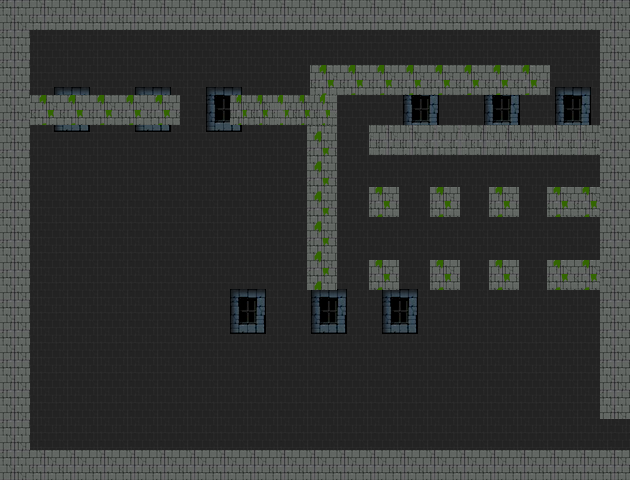
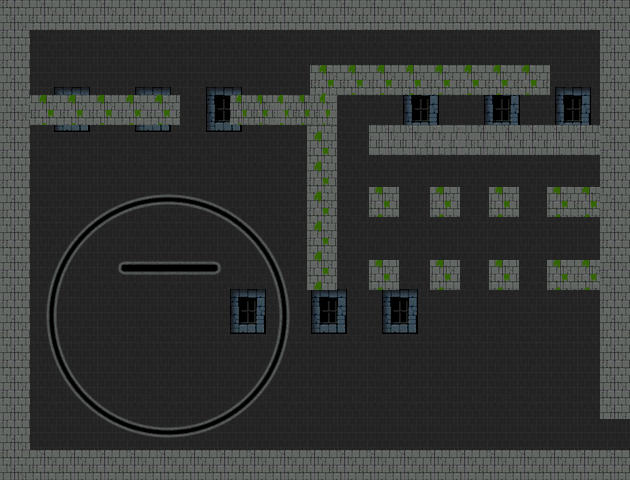
more

Changed region(s): [[0.0603, 0.4062, 0.4825, 0.9375], [0.181, 0.5312, 0.3619, 0.5938]]

diff --git a/SampleGames/ShaculaV2/scripts/gameController.js b/SampleGames/ShaculaV2/scripts/gameController.js
@@ -8,25 +8,33 @@ var gameController = {
         var levelToCreate = Levels[GLOBAL.currentLevel];
         
         //Levers
-        for (var i = 0; i < levelToCreate.levers.length; i++) {
-            GLOBAL.leverContainer.cloneObject(levelToCreate.levers[i]);
+        if (levelToCreate.levers) {
+            for (var i = 0; i < levelToCreate.levers.length; i++) {
+                GLOBAL.leverContainer.cloneObject(levelToCreate.levers[i]);
+            }
         }
         
         //Spikes
-        for (var i = 0; i < levelToCreate.spikes.length; i++) {
-            GLOBAL.spikeContainer.cloneObject(levelToCreate.spikes[i]);
+        if (levelToCreate.spikes) {
+            for (var i = 0; i < levelToCreate.spikes.length; i++) {
+                GLOBAL.spikeContainer.cloneObject(levelToCreate.spikes[i]);
+            }
         }
         
         //Blood
-        for (var i = 0; i < levelToCreate.blood.length; i++) {
-            if (levelToCreate.blood[i].isActive) {
-                GLOBAL.bloodContainer.cloneObject({ blood: levelToCreate.blood[i], index: i });
+        if (levelToCreate.blood) {
+            for (var i = 0; i < levelToCreate.blood.length; i++) {
+                if (levelToCreate.blood[i].isActive) {
+                    GLOBAL.bloodContainer.cloneObject({ blood: levelToCreate.blood[i], index: i });
+                }
             }
         }
         
         //Bats
-        for (var i = 0; i < levelToCreate.bats.length; i++) {
-            GLOBAL.batContainer.cloneObject(levelToCreate.bats[i]);
+        if (levelToCreate.bats) {
+            for (var i = 0; i < levelToCreate.bats.length; i++) {
+                GLOBAL.batContainer.cloneObject(levelToCreate.bats[i]);
+            }
         }
         
         //Exits
@@ -35,13 +43,23 @@ var gameController = {
         }
         
         //Falling Walls
-        for (var i = 0; i < levelToCreate.fallingWalls.length; i++) {
-            GLOBAL.fallingWallContainer.cloneObject(levelToCreate.fallingWalls[i]);
+        if (levelToCreate.fallingWalls) {
+            for (var i = 0; i < levelToCreate.fallingWalls.length; i++) {
+                GLOBAL.fallingWallContainer.cloneObject(levelToCreate.fallingWalls[i]);
+            }
         }
         
         //Moving Walls
-        for (var i = 0; i < levelToCreate.movableWalls.length; i++) {
-            GLOBAL.movableWallContainer.cloneObject(levelToCreate.movableWalls[i]);
+        if (levelToCreate.movableWalls) {
+            for (var i = 0; i < levelToCreate.movableWalls.length; i++) {
+                GLOBAL.movableWallContainer.cloneObject(levelToCreate.movableWalls[i]);
+            }
+        }
+        
+        if (levelToCreate.saws) {
+            for (var i = 0; i < levelToCreate.saws.length; i++) {
+                GLOBAL.sawContainer.cloneObject(levelToCreate.saws[i]);
+            }
         }
         
         if (levelToCreate.coffin === undefined) {
@@ -56,6 +74,7 @@ var gameController = {
         GLOBAL.fallingWallContainer.clearAll();
         GLOBAL.leverContainer.clearAll();
         GLOBAL.movableWallContainer.clearAll();
+        GLOBAL.sawContainer.clearAll();
         
         dracul.x = data.dracCoords.x;
         dracul.y = data.dracCoords.y;

diff --git a/SampleGames/ShaculaV2/index.html b/SampleGames/ShaculaV2/index.html
@@ -29,6 +29,7 @@
     <script language="Javascript" src="scripts/fallingWall.js"></script>
     <script language="Javascript" src="scripts/lever.js"></script>
     <script language="Javascript" src="scripts/movableWall.js"></script>
+    <script language="Javascript" src="scripts/saw.js"></script>
 	
 	<body>
 		<canvas id="canvas" width="630" height="480"></canvas>
@@ -76,15 +77,7 @@
 			barWidth: 0,
 			init: function() {
 				jsGFwk.ResourceManager.onResourcesLoadedCompleted = function() {
-					
-					/*jsGFwk.Sprites.createSprite({id: "background1", 
-						graphic: jsGFwk.ResourceManager.graphics.all.image,
-						top: 77, left: 702, width: 610, height: 480});
-                    
-                    jsGFwk.Sprites.createSprite({id: "background2", 
-						graphic: jsGFwk.ResourceManager.graphics.all.image,
-						top: 77, left: 1352, width: 630, height: 480});*/
-					
+										
 					jsGFwk.Sprites.createSpriteCollection("goal", jsGFwk.ResourceManager.graphics.all.image,
 						[{top: 15, left: 395, width: 25, height: 36},
                          {top: 15, left: 429, width: 31, height: 36}]);
@@ -196,6 +189,13 @@
                          {left: 355, top: 89, width: 29, height: 17}]);
 					jsGFwk.Sprites.bat.loop(true);
                     
+                    jsGFwk.Sprites.createSpriteCollection("saw", jsGFwk.ResourceManager.graphics.all.image, 
+						[{left: 795, top: 120, width: 30, height: 30},
+						 {left: 828, top: 120, width: 30, height: 30},
+                         {left: 863, top: 120, width: 30, height: 30},
+                         {left: 899, top: 120, width: 30, height: 30}]);
+					jsGFwk.Sprites.saw.loop(true);
+                    
                     jsGFwk.Sprites.createSpriteCollection("effectCloud", jsGFwk.ResourceManager.graphics.all.image,
 						[{top: 601, left: 377, width: 89, height: 86},
                          {top: 601, left: 489, width: 89, height: 86},
@@ -241,6 +241,7 @@
                     GLOBAL.fallingWallContainer = jsGFwk.Container.createContainer('fallingWalls', FallingWall, true);
                     GLOBAL.leverContainer = jsGFwk.Container.createContainer('levers', Lever, true);
                     GLOBAL.movableWallContainer = jsGFwk.Container.createContainer('movableWalls', MovableWall, true);
+                    GLOBAL.sawContainer = jsGFwk.Container.createContainer('sawWalls', Saw, true);
                     
 					jsGFwk.Scenes.create({name: "main", gameObjects: [hud, GLOBAL.cloudContainer] });
 							
@@ -248,6 +249,7 @@
 						gameObjects: [background, gameController,
                             GLOBAL.leverContainer,
 							GLOBAL.spikeContainer, GLOBAL.bloodContainer,
+                            GLOBAL.sawContainer,
                             GLOBAL.batContainer, GLOBAL.fallingWallContainer,
                             GLOBAL.movableWallContainer,
                             Coffin, dracul, Light,

diff --git a/SampleGames/ShaculaV2/scripts/saw.js b/SampleGames/ShaculaV2/scripts/saw.js
@@ -1,0 +1,45 @@
+var Saw = {
+    onInit: function (parameters) {
+        this.x = parameters.x;
+        this.y = parameters.y;
+        this.originalX = parameters.x;
+        this.originalY = parameters.y;
+        this.width = 30;
+        this.height = 30;
+        this.animIndex = 0;
+        this.moveAccumulator = 0;
+        this.speed = parameters.speed;
+        this.range = parameters.range;
+        
+        switch (parameters.type) {
+            case 'circular':
+                this.updatePointer = this.updateCircular;
+                break;
+            default:
+                this.updatePointer = this.updateLinear;
+                break;
+        }
+    },
+    updateCircular: function (delta) {
+        this.moveAccumulator += this.speed;
+        this.x = (Math.sin(this.moveAccumulator) * this.range) + this.originalX;
+        this.y = (Math.cos(this.moveAccumulator) * this.range) + this.originalY;
+    },
+    updateLinear: function (delta) {
+        this.moveAccumulator += this.speed;
+        this.x = (Math.sin(this.moveAccumulator) * this.range) + this.originalX;
+    },
+    updatePointer: function () {},
+    onUpdate: function (delta) {
+        this.animIndex++;
+        this.animIndex = this.animIndex % 4;
+        this.updatePointer(delta);
+        
+        if (dracul.isRectColliding(this)) {
+            dracul.kill();
+        }
+    },
+    onDraw: function (ctx) {
+        ctx.drawImage(jsGFwk.Sprites.saw.spriteBag[this.animIndex].image, this.x, this.y);
+    }
+};

diff --git a/SampleGames/ShaculaV2/scripts/level.js b/SampleGames/ShaculaV2/scripts/level.js
@@ -42,12 +42,16 @@ var Levels = [
             { x: 489, y: 290, fallSpeed: 1.5 }
         ],
         levers: [
-            { x: 80, y: 83, state: 0, wall: { x: 50, y: 350, width: 30, height: 30 } },
+            { x: 80, y: 83, state: 0, wall: { x: 150, y: 350, width: 30, height: 30 } },
             { x: 130, y: 83, state: 0, wall: { x: 200, y: 350, width: 30, height: 30 } }
         ],
         movableWalls: [
             { x: 140, y: 40, id: 0 },
             { x: 220, y: 240, id: 1 }
+        ],
+        saws: [
+            { x: 155, y: 300, type: 'circular', speed: 0.02, range: 115 },
+            { x: 160, y: 252, type: 'linear', speed: 0.1, range: 50 },
         ],
         coffin: { x: 35, y: 60 },
         exit: [ { x: 625, y: 420, goTo: 1, showsAt: { x: 20, y: 420 } } ]
